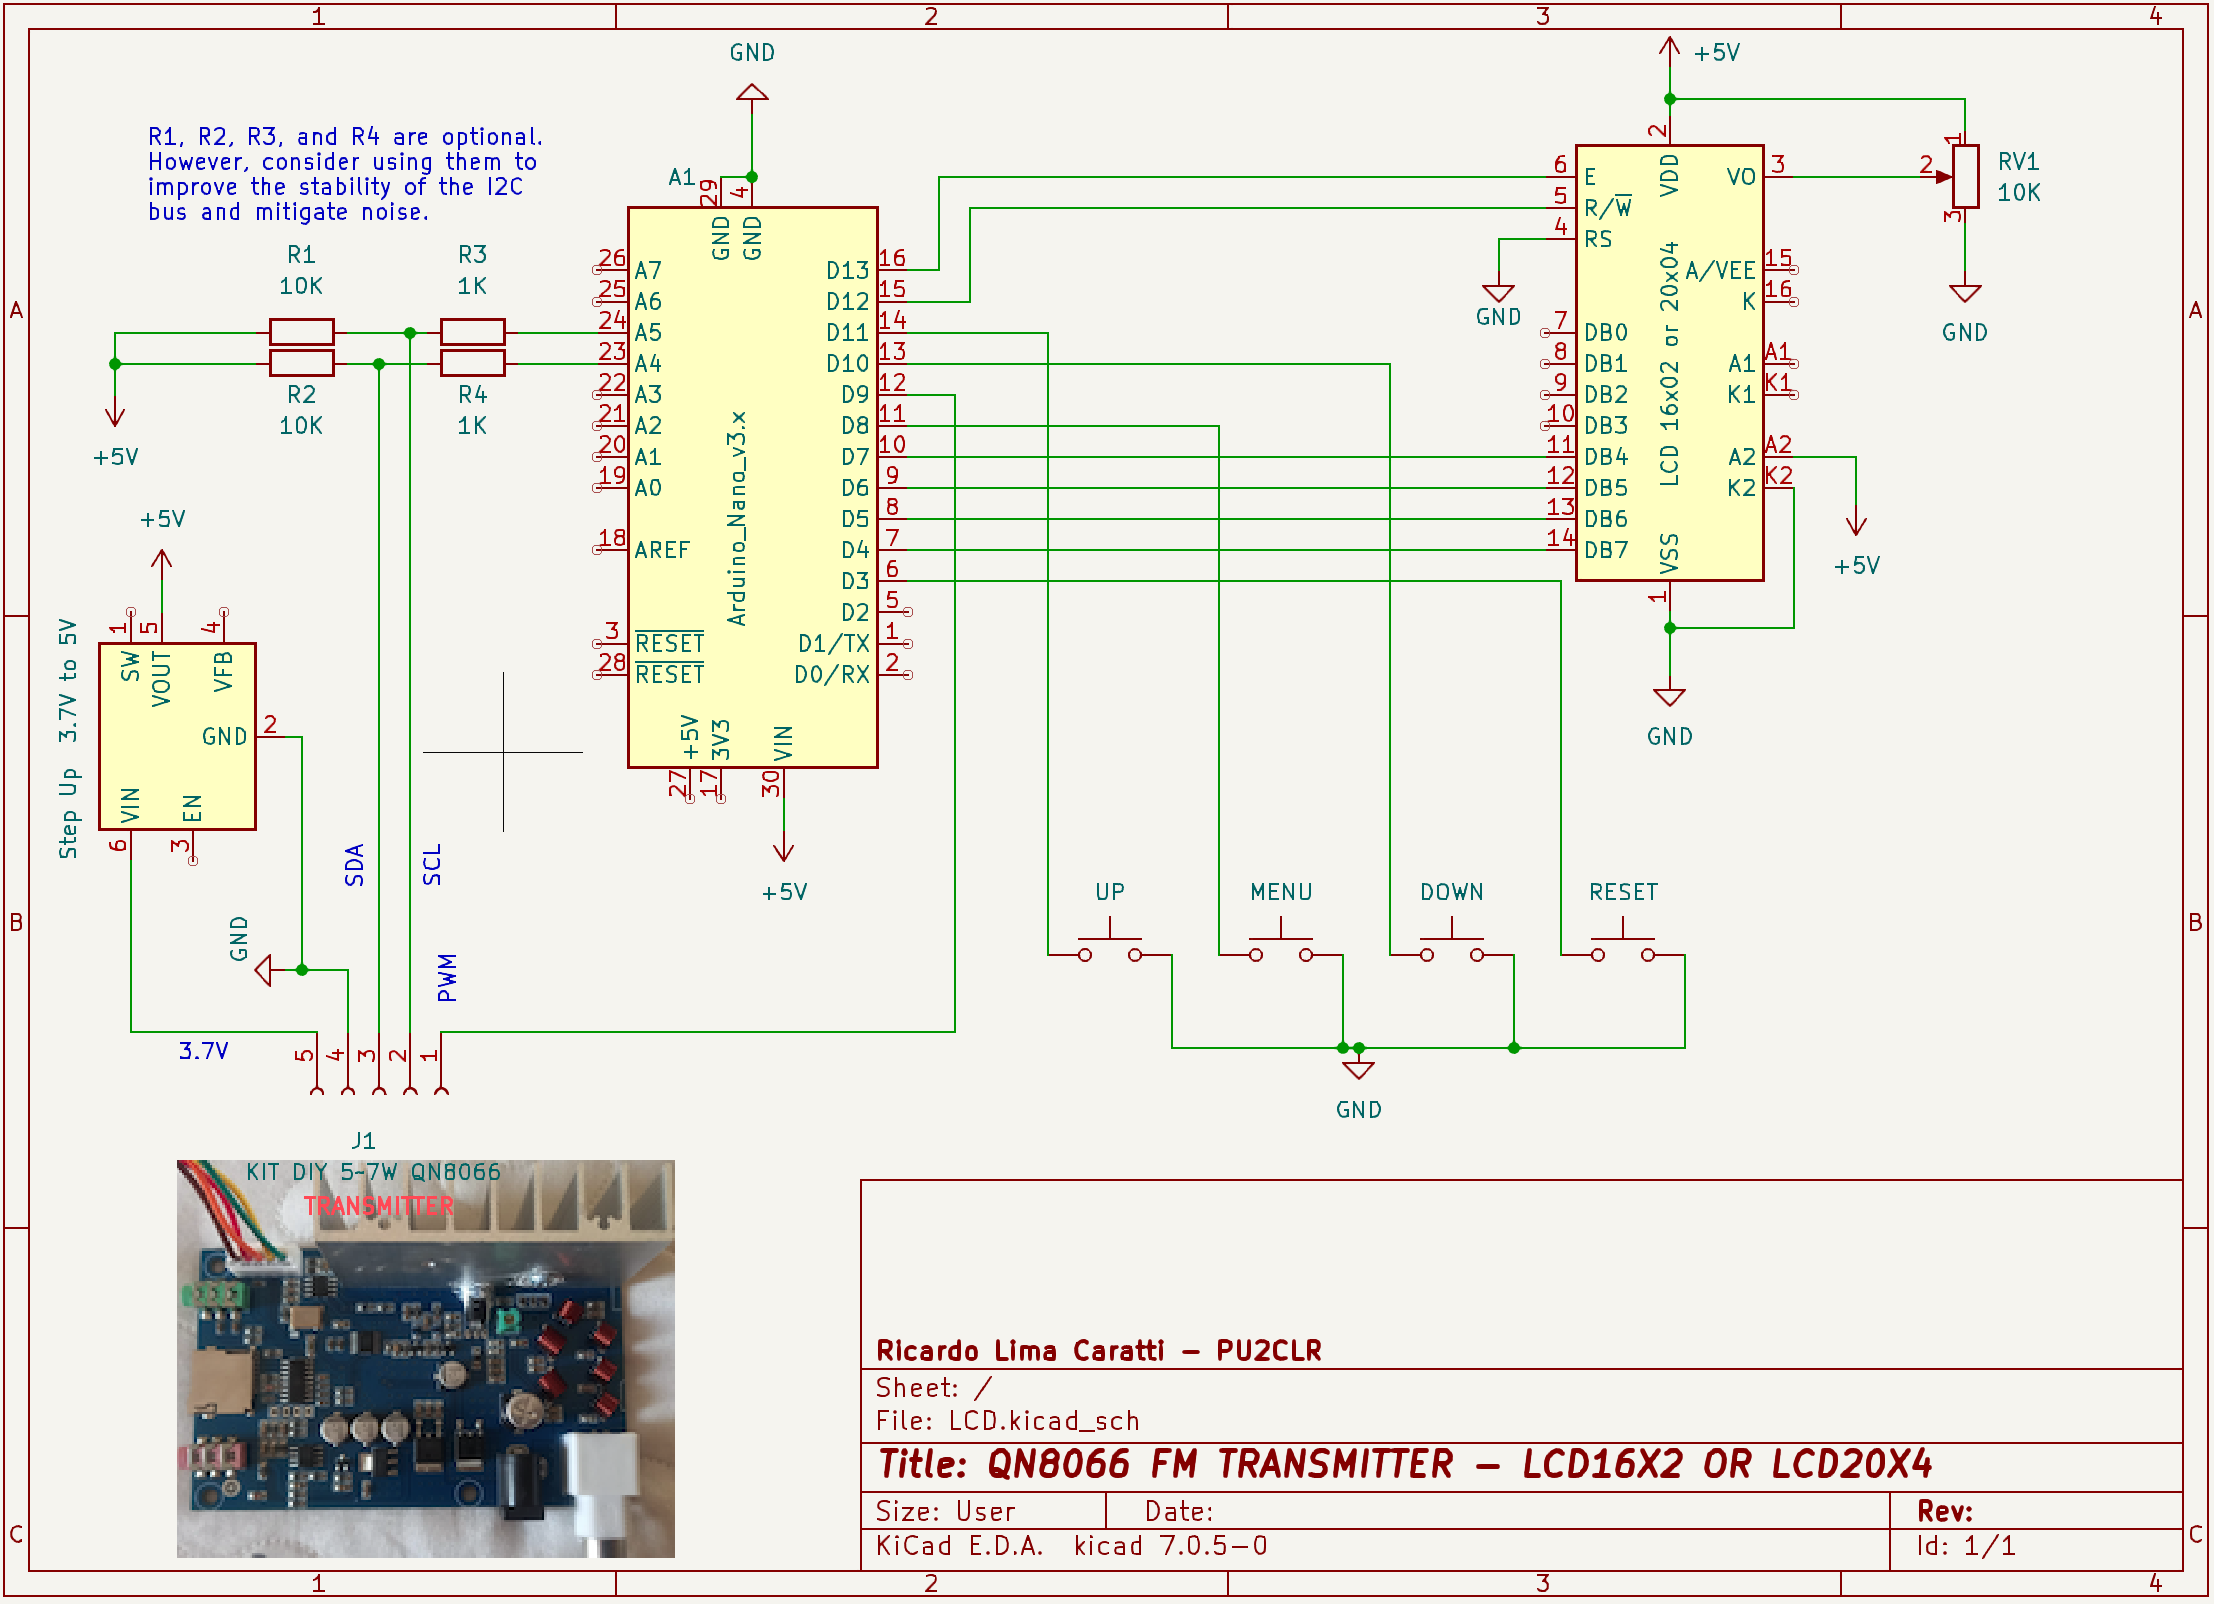
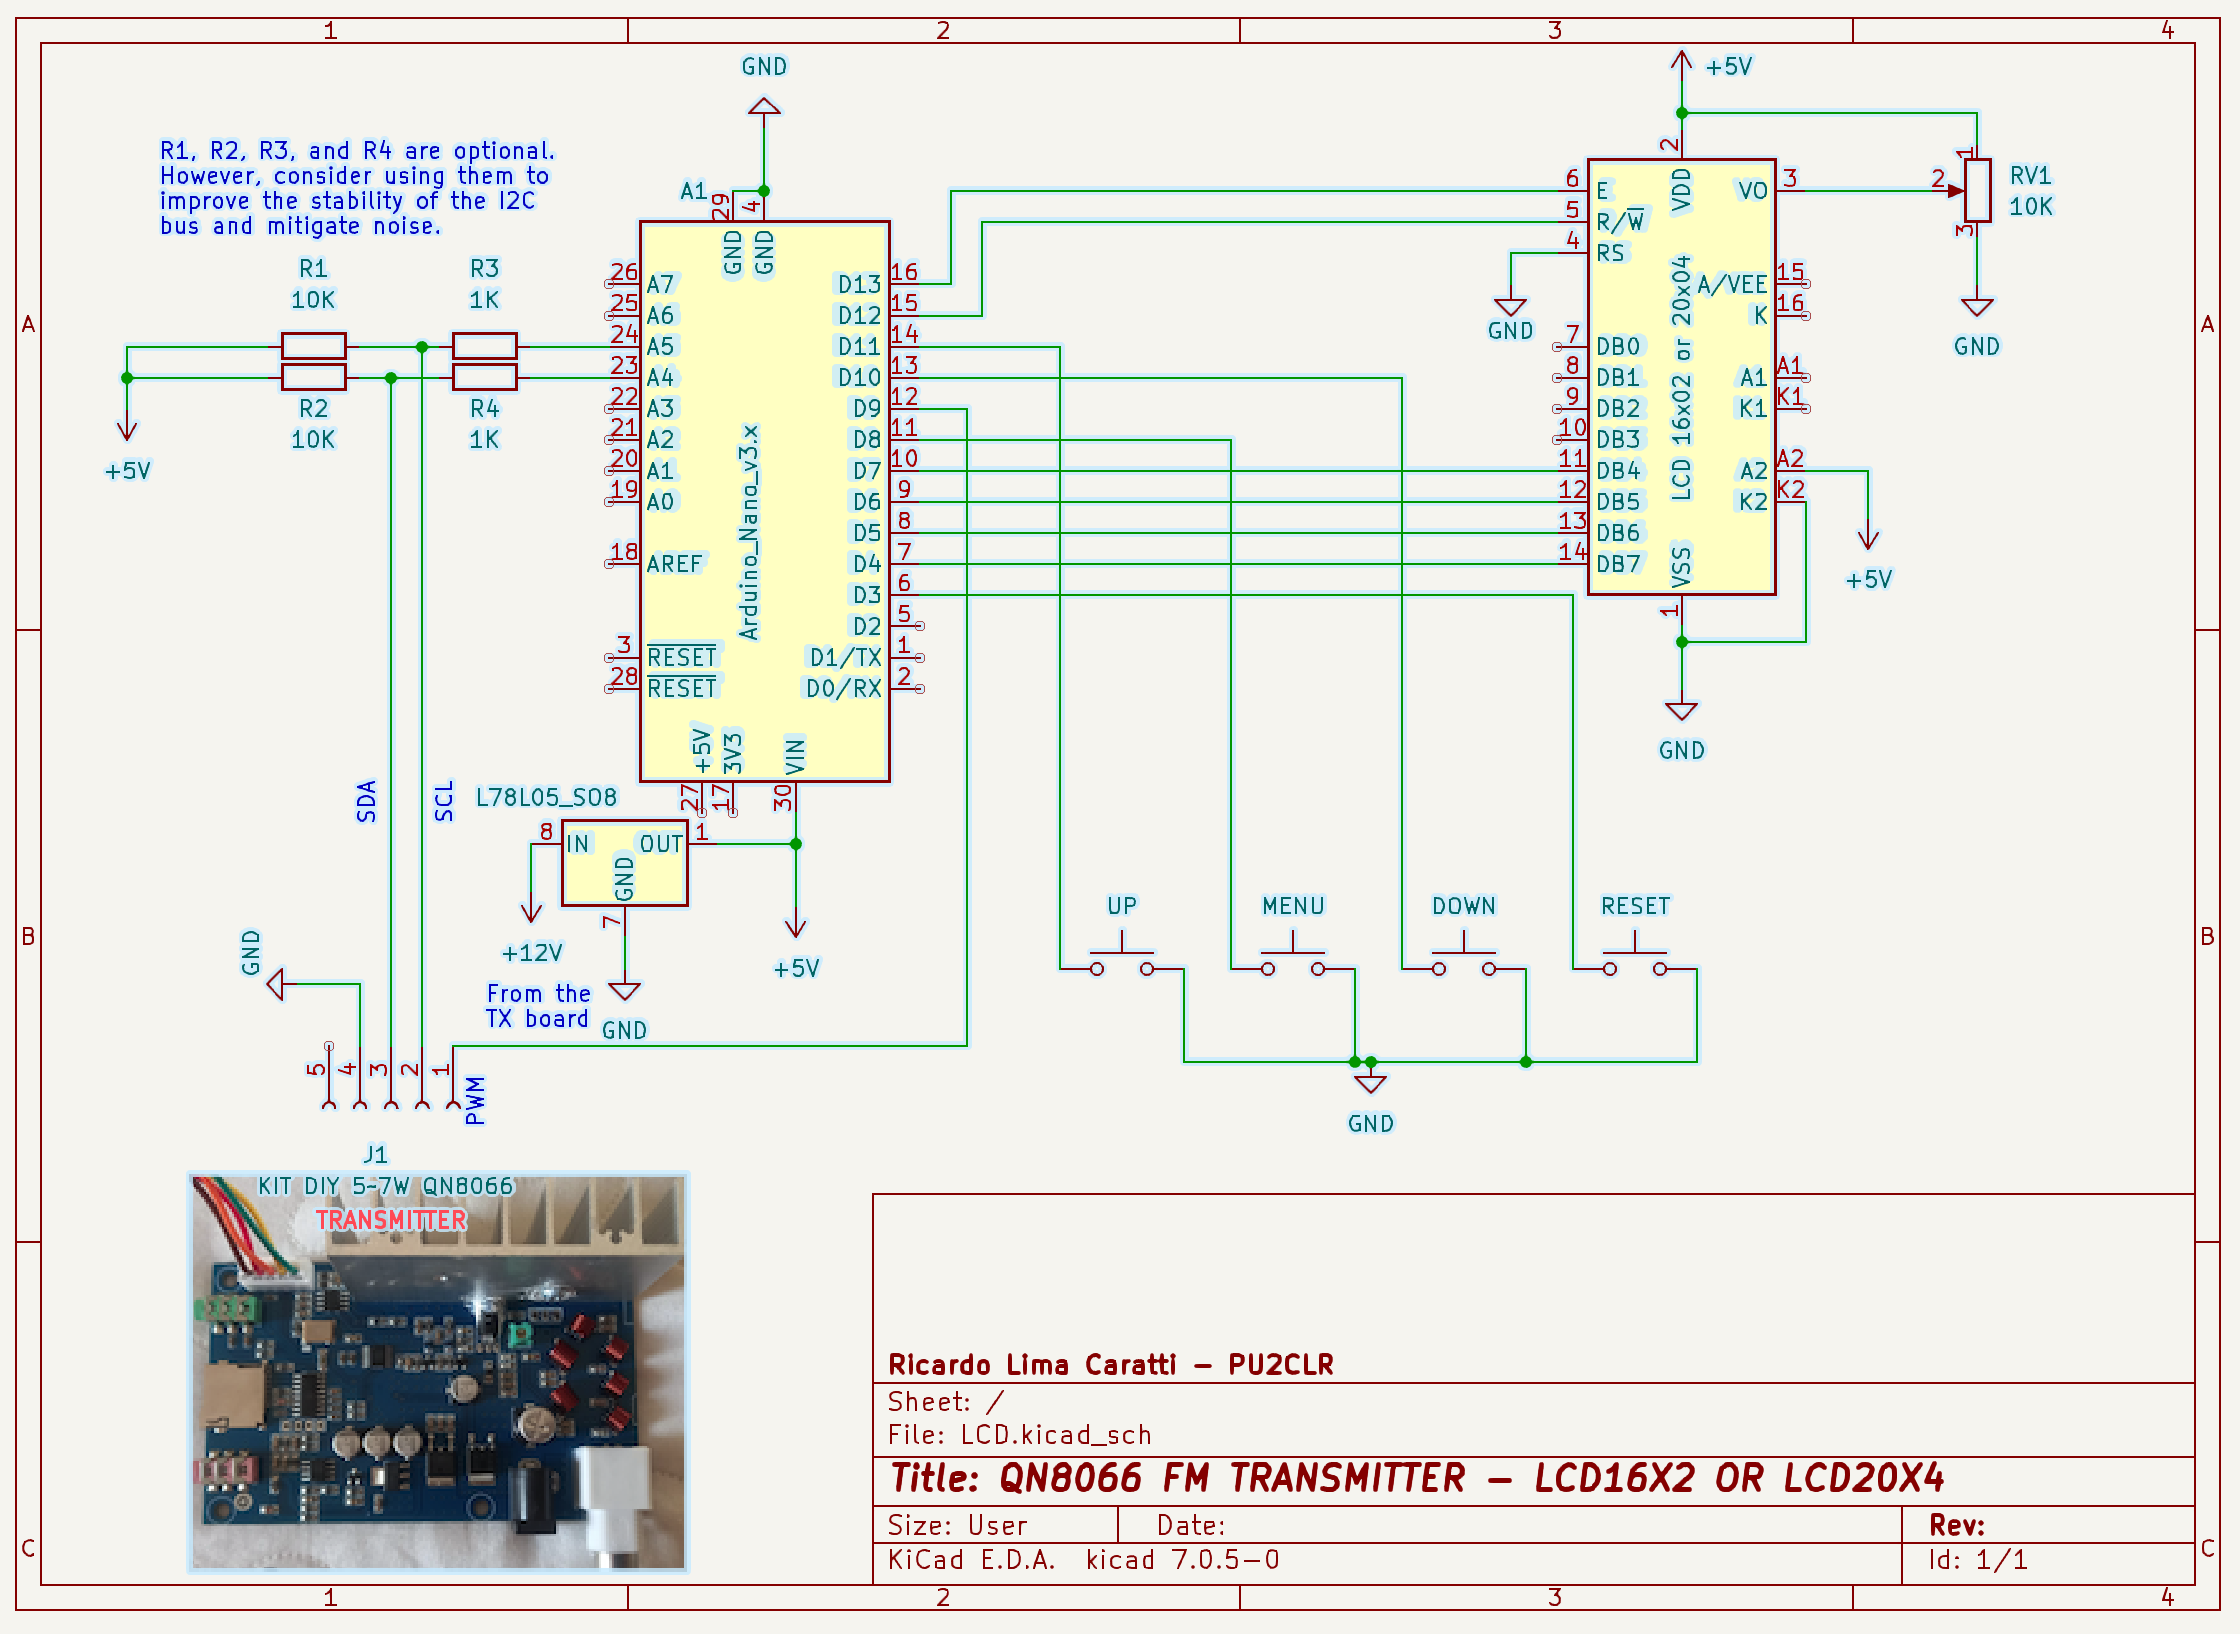
Doc

Changed region(s): [[0.0, 0.0, 1.0, 0.9975]]

diff --git a/examples/03_LCD_16x2_AND_20x4/README.md b/examples/03_LCD_16x2_AND_20x4/README.md
@@ -46,4 +46,4 @@ The following schematic illustrates the connections between the Arduino Nano, th
 
 ### IMPORTANT
 
-The DIY 5~7W Kit provides a 3.7V power source, which is not sufficient to  power the Arduino Nano (5V) and the LCD 16x2. Here are a few solutions to address this issue: 1) power the A rduino  with  an  external  source; 2)  derive a 5V output from the Kit.
+The DIY 5~7W Kit provides a 3.7V power source, which is not sufficient to  power the Arduino Nano (5V) and the LCD 16x2. Here are a few solutions to address this issue: 1) power the A rduino  with  an  external  source; 2)  derive a 5V output from the Kit; 3) utilize the 12V power supply from the Kit and use a voltage regulator to convert it to 5V, and then power the Arduino.
